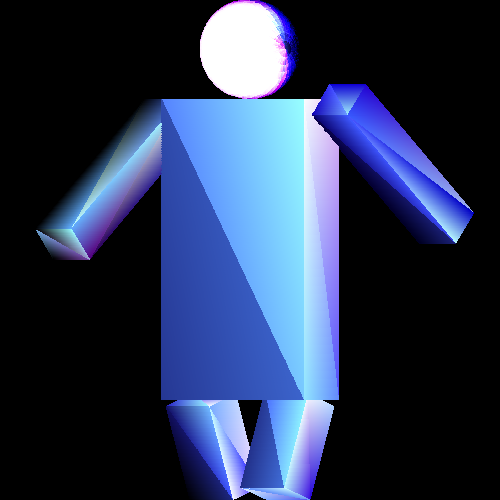
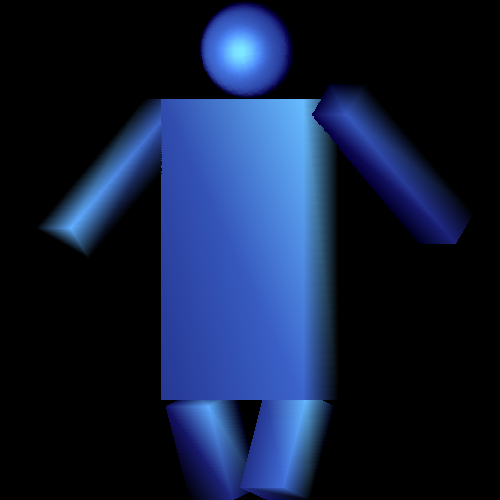
?????

Changed region(s): [[0.06, 0.0, 0.96, 1.0]]

diff --git a/draw.c b/draw.c
@@ -270,7 +270,9 @@ void draw_polygons( struct matrix * polygons, screen s, color c, struct matrix* 
 			//GOURAUD SHADING HERE=====================================================================
 			//calculating I for each vertex of this polygon, sets up cT, cM, cB
 			// printf("here\n");
+			printf("bleh\n");
 			for( k = 0; point[k]; k++){
+			  printf("k\n");
 			for( j = 0; j < vertices->lastcol; j++){
 
 				if(nearly_equal(vertices->m[0][j], xT)&&nearly_equal(vertices->m[1][j],yT)&&nearly_equal(vertices->m[2][j],zT)){
@@ -307,9 +309,9 @@ void draw_polygons( struct matrix * polygons, screen s, color c, struct matrix* 
 
 					// printf("cT before before: %f, %f, %f\n",cT.red, cT.green, cT.blue);
 					// printf("cT Ia: %f, Id: %f, Is: %f\n", Ia.red, Id.red, Is.red);
-					cT.red += Ia.red + Id.red + Is.red;
-      					cT.blue += Ia.blue + Id.blue + Is.blue;
-					cT.green += Ia.green + Id.green + Is.green;
+					cT.red = Ia.red + Id.red + Is.red;
+      					cT.blue = Ia.blue + Id.blue + Is.blue;
+					cT.green = Ia.green + Id.green + Is.green;
 					cT.red = cT.red>255?255:cT.red;
 					cT.red = cT.red<0?0:cT.red;
 					cT.green = cT.green>255?255:cT.green;
@@ -341,9 +343,9 @@ void draw_polygons( struct matrix * polygons, screen s, color c, struct matrix* 
 					Is.green = point[k]->c[1] * rcolor->b[1] * calculate_dot(reflect, view) * calculate_dot(reflect, view) * calculate_dot(reflect, view);
 					Is.blue = point[k]->c[2] * rcolor->b[2] * calculate_dot(reflect, view) * calculate_dot(reflect, view)  * calculate_dot(reflect, view);
 
-					cM.red += Ia.red + Id.red + Is.red;
-					cM.blue += Ia.blue + Id.blue + Is.blue;					
-					cM.green += Ia.green + Id.green + Is.green;
+					cM.red = Ia.red + Id.red + Is.red;
+					cM.blue = Ia.blue + Id.blue + Is.blue;					
+					cM.green = Ia.green + Id.green + Is.green;
 					cM.red = cM.red>255?255:cM.red;
 					cM.red = cM.red<0?0:cM.red;
 					cM.green = cM.green>255?255:cM.green;
@@ -374,9 +376,9 @@ void draw_polygons( struct matrix * polygons, screen s, color c, struct matrix* 
 					Is.green = point[k]->c[1] * rcolor->b[1] * calculate_dot(reflect, view) * calculate_dot(reflect, view) * calculate_dot(reflect, view);
 					Is.blue = point[k]->c[2] * rcolor->b[2] * calculate_dot(reflect, view) * calculate_dot(reflect, view)  * calculate_dot(reflect, view);
 
-					cB.red += Ia.red + Id.red + Is.red;
-      					cB.blue += Ia.blue + Id.blue + Is.blue;
-					cB.green += Ia.green + Id.green + Is.green;
+					cB.red = Ia.red + Id.red + Is.red;
+      					cB.blue = Ia.blue + Id.blue + Is.blue;
+					cB.green = Ia.green + Id.green + Is.green;
 					cB.red = cB.red>255?255:cB.red;
 					cB.red = cB.red<0?0:cB.red;
 					cB.green = cB.green>255?255:cB.green;
